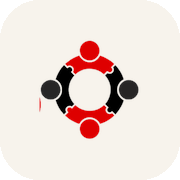
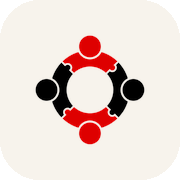
feat(marca premium): emblema oficial nítido + toque moderno y futurista
- Emblema oficial en alta resolución (ONEBODY (1).png) como fuente de favicon,
  apple-touch, iconos del manifest y del hero/splash — nítido en todo tamaño.
- Hero más vivo: fondo tipo "aurora" con dos halos que derivan lentamente,
  emblema con anillos concéntricos y un punto en órbita (detalle futurista), y
  acento de degradado rojo en el titular. Todo respeta prefers-reduced-motion.
- Tarjetas con elevación al hover (.ob-lift) y zoom sutil de imagen en las
  tarjetas de proyecto — micro-interacciones modernas.
- Utilidades nuevas en globals: aurora/órbita/lift/gradient-text.

Verificado: typecheck / lint / build OK.

Claude-Session: https://claude.ai/code/session_014LDmJX5x92xpDB4wsaJkcE

Changed region(s): [[0.1944, 0.1944, 0.8056, 0.8056]]

diff --git a/src/components/hero.tsx b/src/components/hero.tsx
@@ -13,12 +13,17 @@ export function Hero() {
 
   return (
     <section className="relative flex min-h-dvh items-center overflow-hidden pt-16">
-      {/* Halo rojo tenue detrás del emblema — parte del sistema de marca. */}
-      <div
-        aria-hidden
-        className="pointer-events-none absolute left-[72%] top-1/2 -z-10 size-[560px] max-w-full -translate-x-1/2 -translate-y-1/2 rounded-full opacity-60 blur-[130px]"
-        style={{ background: "var(--color-ob-red-glow)" }}
-      />
+      {/* Aurora ambiental: dos halos que derivan lentamente — moderno y sereno. */}
+      <div aria-hidden className="pointer-events-none absolute inset-0 -z-10 overflow-hidden">
+        <div
+          className="ob-aurora-1 absolute left-[68%] top-[38%] size-[620px] max-w-full -translate-x-1/2 -translate-y-1/2 rounded-full opacity-70 blur-[130px]"
+          style={{ background: "radial-gradient(circle, var(--color-ob-red-glow), transparent 70%)" }}
+        />
+        <div
+          className="ob-aurora-2 absolute left-[20%] top-[75%] size-[520px] max-w-full -translate-x-1/2 -translate-y-1/2 rounded-full opacity-50 blur-[140px]"
+          style={{ background: "radial-gradient(circle, rgba(255,138,90,0.28), transparent 70%)" }}
+        />
+      </div>
 
       <div className="mx-auto grid w-full max-w-6xl grid-cols-1 items-center gap-12 px-6 py-20 md:grid-cols-[1.2fr_1fr]">
         <div>
@@ -35,7 +40,7 @@ export function Hero() {
             {[t("titleLine1"), t("titleLine2")].map((line, i) => (
               <span key={line} className="block overflow-hidden pb-[0.05em]">
                 <motion.span
-                  className="block"
+                  className={`block ${i === 1 ? "ob-gradient-text" : ""}`}
                   initial={{ opacity: 0, y: "0.6em" }}
                   animate={{ opacity: 1, y: 0 }}
                   transition={{ duration: 0.7, ease: EASE, delay: 0.15 + i * 0.12 }}
@@ -83,8 +88,18 @@ export function Hero() {
           />
           <div
             aria-hidden
-            className="pointer-events-none absolute inset-[12%] rounded-full border border-ob-ash/40"
+            className="pointer-events-none absolute inset-[12%] rounded-full border border-dashed border-ob-ash/50"
           />
+          {/* Órbita: un punto que recorre el anillo — detalle futurista sutil. */}
+          <div
+            aria-hidden
+            className={`pointer-events-none absolute inset-0 ${reduce ? "" : "ob-orbit"}`}
+          >
+            <span
+              className="absolute left-1/2 top-0 size-2.5 -translate-x-1/2 -translate-y-1/2 rounded-full bg-ob-red"
+              style={{ boxShadow: "0 0 14px 2px var(--color-ob-red-glow)" }}
+            />
+          </div>
           <motion.div
             className="relative flex w-full items-center justify-center"
             animate={reduce ? undefined : { y: [0, -14, 0] }}

diff --git a/src/app/globals.css b/src/app/globals.css
@@ -102,6 +102,45 @@ body {
 }
 
 /* ==========================================================================
+   Movimiento ambiental — aurora suave y órbita del emblema (moderno / premium).
+   Barato en GPU (transform/opacity). Se detiene con prefers-reduced-motion.
+   ========================================================================== */
+@keyframes ob-drift-1 {
+  0%, 100% { transform: translate3d(0, 0, 0) scale(1); }
+  50% { transform: translate3d(4%, -5%, 0) scale(1.08); }
+}
+@keyframes ob-drift-2 {
+  0%, 100% { transform: translate3d(0, 0, 0) scale(1); }
+  50% { transform: translate3d(-5%, 4%, 0) scale(1.1); }
+}
+@keyframes ob-spin {
+  to { transform: rotate(360deg); }
+}
+.ob-aurora-1 { animation: ob-drift-1 16s ease-in-out infinite; }
+.ob-aurora-2 { animation: ob-drift-2 20s ease-in-out infinite; }
+.ob-orbit { animation: ob-spin 26s linear infinite; }
+
+/* Realce de tarjeta premium: elevación suave al pasar el cursor. */
+.ob-lift {
+  transition:
+    transform 0.35s var(--ease-expo-out),
+    box-shadow 0.35s var(--ease-expo-out),
+    border-color 0.35s var(--ease-expo-out);
+}
+.ob-lift:hover {
+  transform: translateY(-4px);
+  box-shadow: 0 18px 50px -20px rgba(20, 16, 12, 0.28);
+}
+
+/* Texto con degradado de marca para acentos de titular. */
+.ob-gradient-text {
+  background: linear-gradient(120deg, var(--color-ob-red) 0%, #ff6a3d 100%);
+  -webkit-background-clip: text;
+  background-clip: text;
+  color: transparent;
+}
+
+/* ==========================================================================
    prefers-reduced-motion — respetado en todo el sistema (Sección 2.5 / 10).
    ========================================================================== */
 @media (prefers-reduced-motion: reduce) {

diff --git a/src/components/ui/treated-image.tsx b/src/components/ui/treated-image.tsx
@@ -51,7 +51,7 @@ export function TreatedImage({
           fill
           sizes={sizes}
           priority={priority}
-          className="object-cover [filter:sepia(0.12)_saturate(1.05)_contrast(1.05)_brightness(1.02)]"
+          className="object-cover transition-transform duration-[650ms] ease-[var(--ease-expo-out)] group-hover:scale-[1.05] [filter:sepia(0.12)_saturate(1.05)_contrast(1.05)_brightness(1.02)]"
         />
       ) : (
         // Marcador cálido con el mismo grado, hasta que llegue la foto real.

diff --git a/src/components/ui/card.tsx b/src/components/ui/card.tsx
@@ -14,9 +14,8 @@ export function Card({
   return (
     <div
       className={cn(
-        "rounded-[var(--radius-ob)] border border-ob-ash/40 bg-ob-graphite p-6",
-        interactive &&
-          "transition-colors duration-200 ease-[var(--ease-expo-out)] hover:border-ob-ash",
+        "rounded-[var(--radius-ob)] border border-ob-ash/40 bg-ob-graphite p-6 shadow-[0_1px_2px_rgba(20,16,12,0.04)]",
+        interactive && "ob-lift hover:border-ob-red/40",
         className,
       )}
     >
